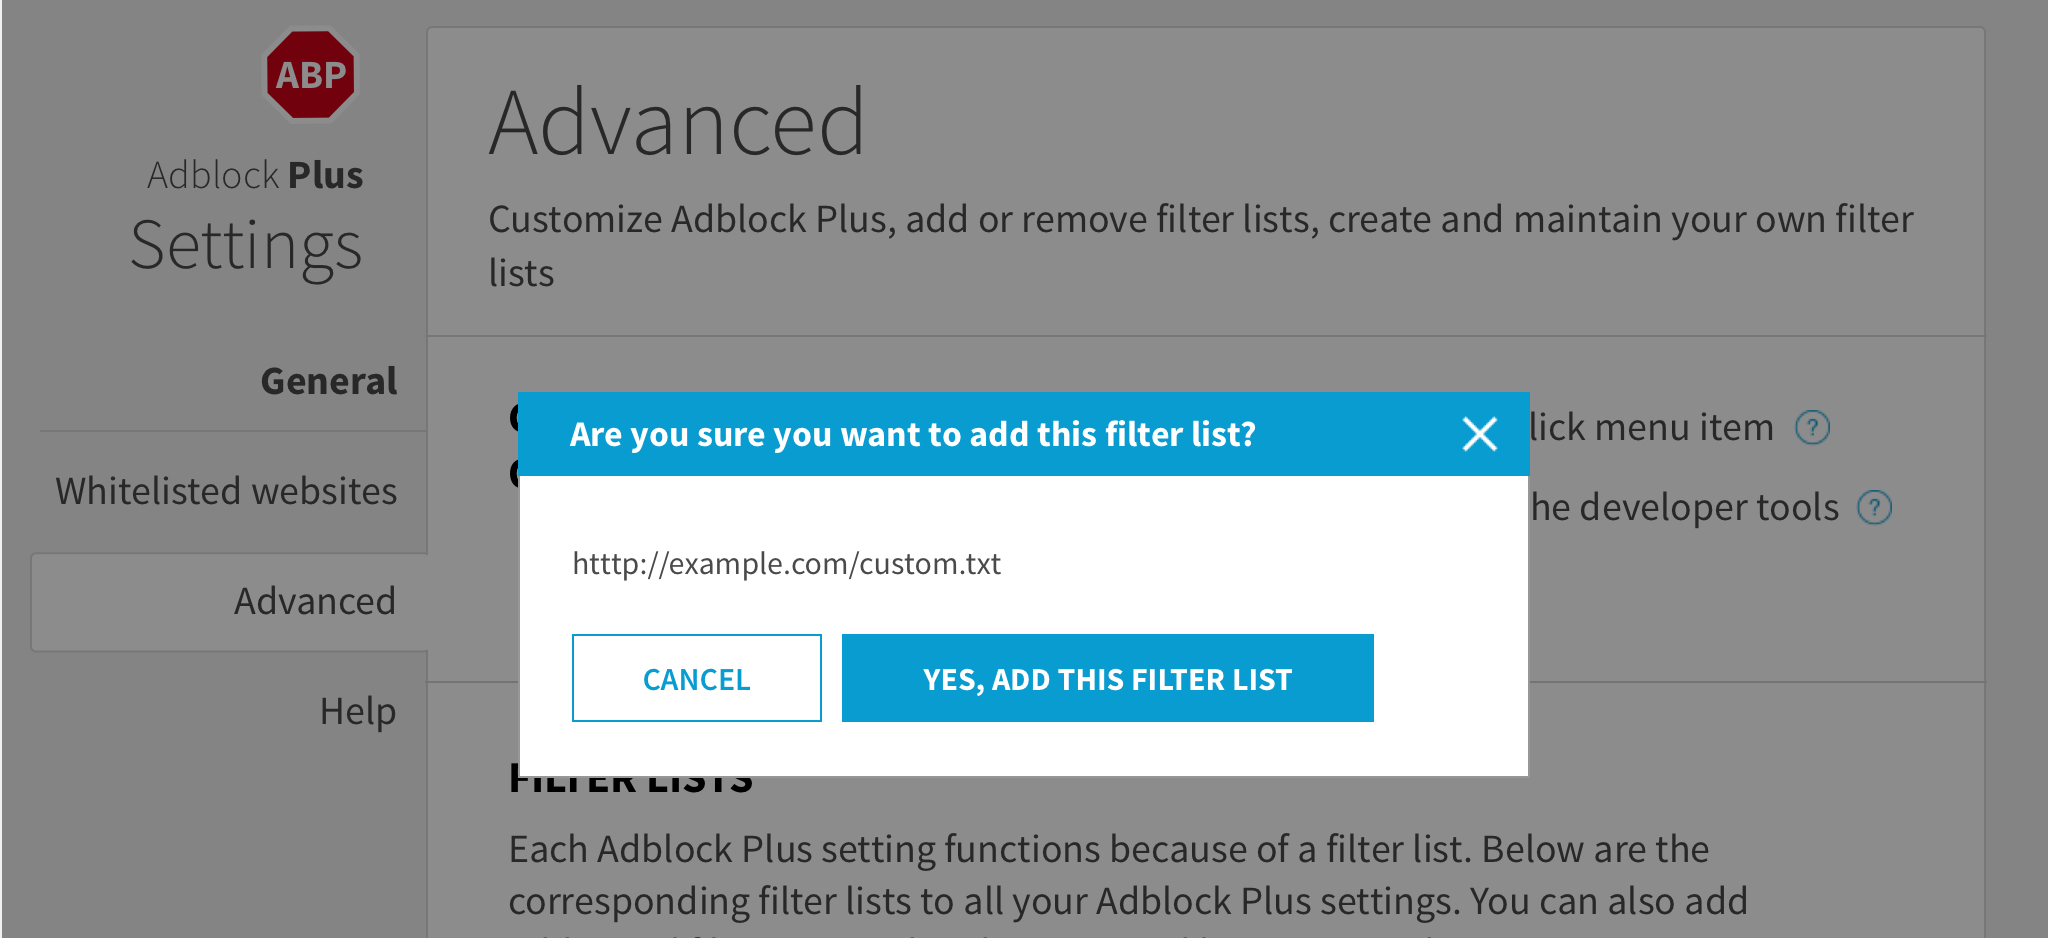
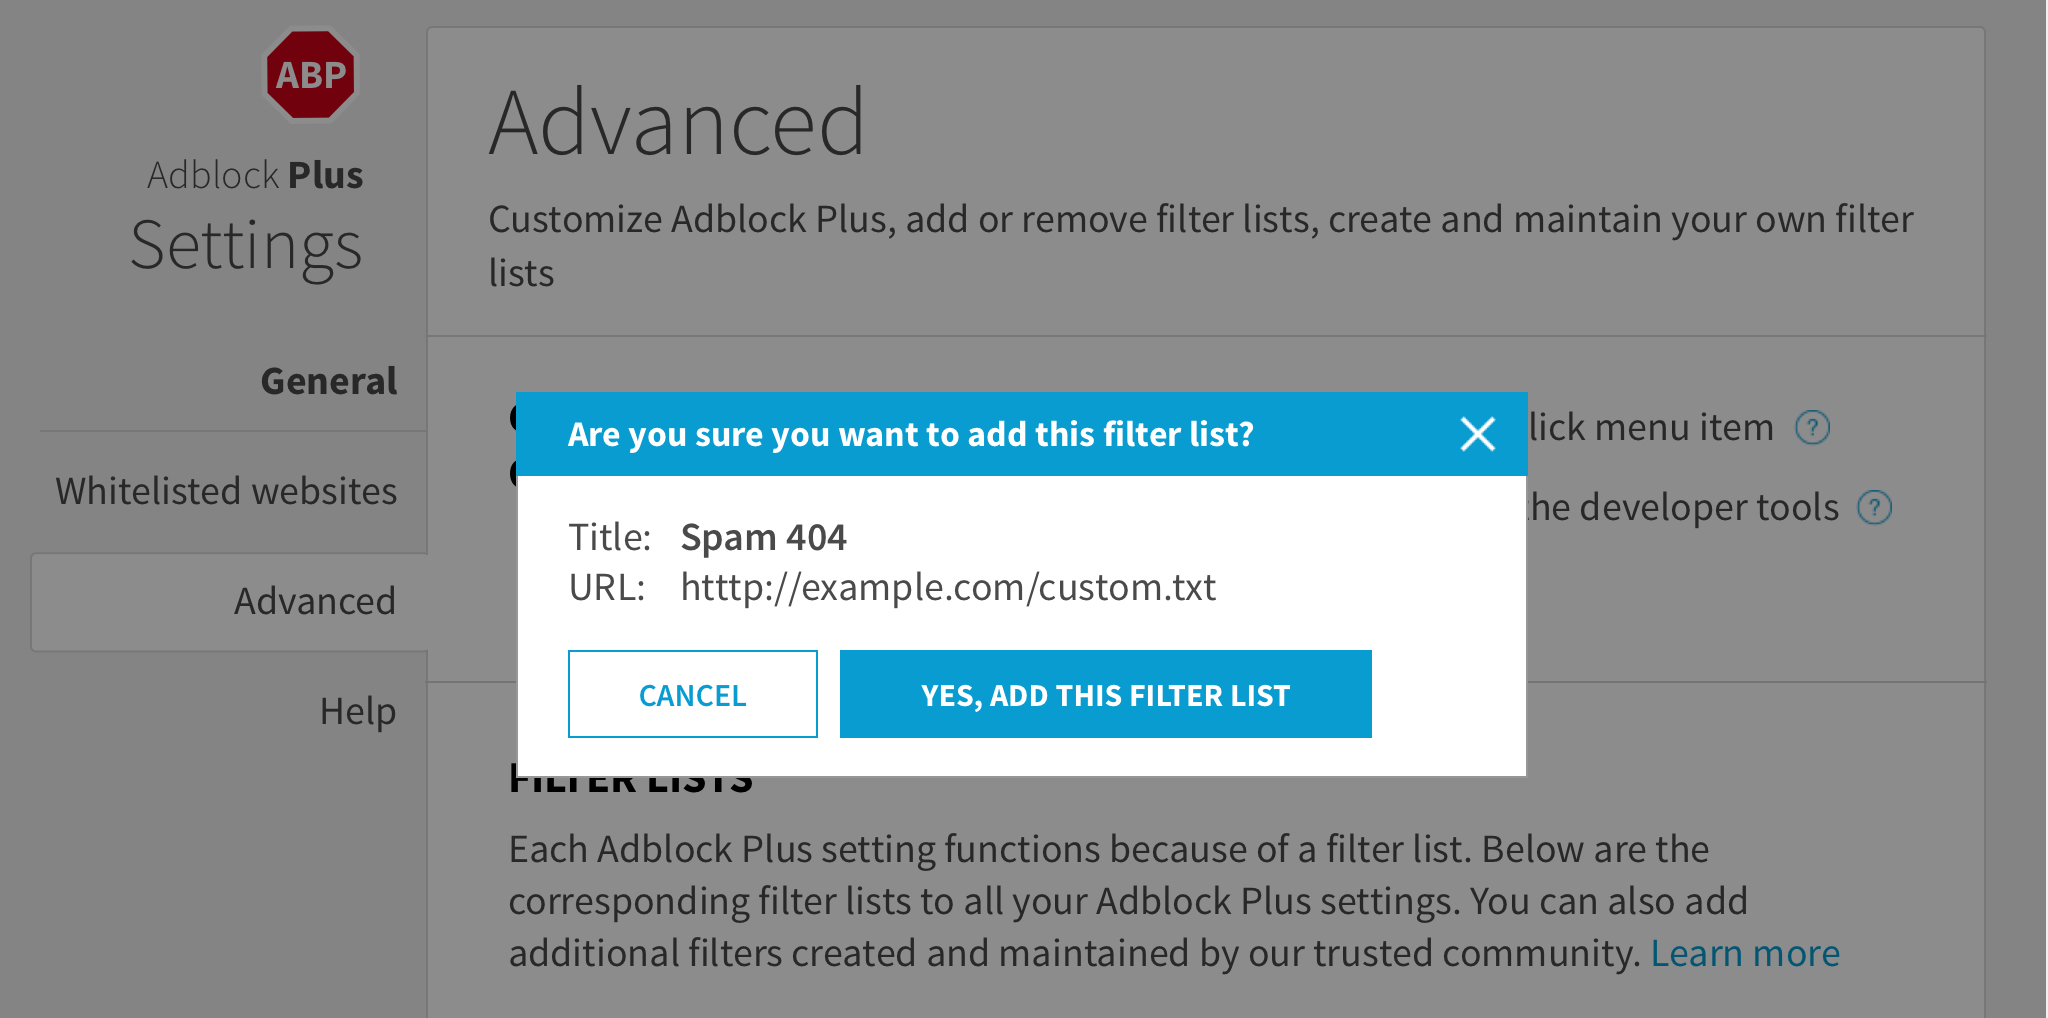
Updated predefined subscriptions popup

diff --git a/spec/abp/options-page.md b/spec/abp/options-page.md
@@ -704,7 +704,7 @@ The size of the layover menu should correspond to the screen size. The scroll ba
 
 ### Focused filter list
 
-When a filter list is focused on the whole row should be highlighted.
+When a filter list is in focus the whole row should be highlighted.
 
 ### Language filter list title
 
@@ -813,28 +813,29 @@ If [Custom subscription popup subscription url input](#Custom-subscription-popup
 
 #### Custom subscription popup cancel button
 
-Closes the [Add custom subscription popup](#add-custom-subscription-popup)
-
-`Cancel`
+- Closes the [Add custom subscription popup](#add-custom-subscription-popup)
+- Label `Cancel`
 
 #### Custom subscription popup add button
 
-Inactive as long as [Custom subscription popup subscription title input](#custom-subscription-popup-subscription-title-input) and [Custom subscription popup subscription url input](#Custom-subscription-popup-subscription-url-input) don't validate.
-
-Adds filter list.
-
-See [Advanced tab added filter list](#advanced-tab-added-filter-list)
-
-`Add filter list`
+- Adds filter list.
+- Tab focus on the `Add filter list` button before `Cancel`.
+- Inactive as long as [Custom subscription popup subscription title input](#custom-subscription-popup-subscription-title-input) and [Custom subscription popup subscription url input](#Custom-subscription-popup-subscription-url-input) don't validate.
+- See [Advanced tab added filter list](#advanced-tab-added-filter-list)
+- Label `Add filter list`
 
 ### Add custom subscription popup: Predefined
 
 <img src='/res/abp/options-page/add-custom-subscription-popup-predefined.jpg' width='888px' />
 
 - When a user adds a filter list by clicking on a subscribe-link from an external source, it should open the options page and display the above popup.
-- Popup title `Are you sure you want to add this filter list?`
-- Display filter list URL.
-
+- Default dialog action is on the the primary button `Yes, add this filter list`
+- Popup menu title:  `Are you sure you want to add this filter list?`
+- Popup menu text:  
+`Title: <Filter list title>` 
+`URL: <Filter list URL>`
+- If no filter list title is provided, only show the URL link. 	
+	
 | Button label | Behaviour |
 |-----------|---------------|
 | `Cancel` | Cancels action, and closes popup |
